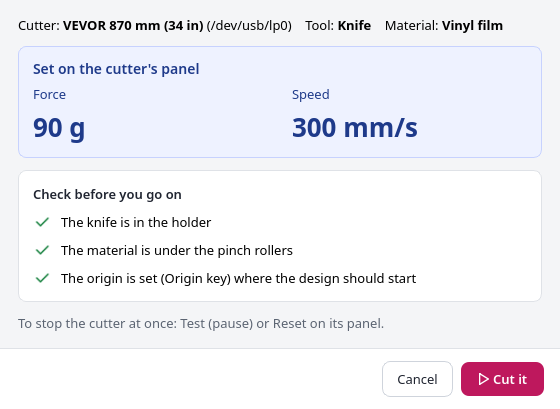
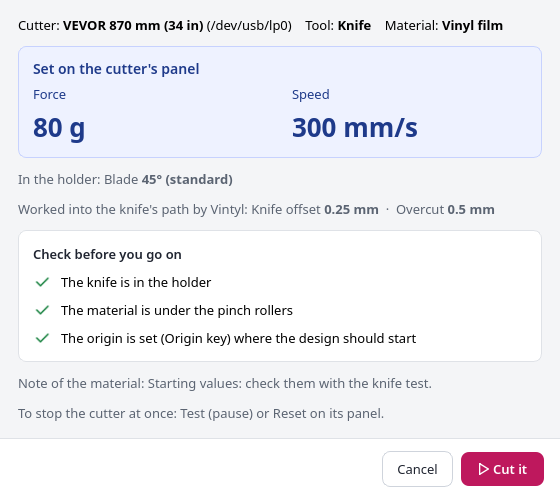
Screenshots for the website, in English and Polish
tools/readme_shots.py becomes tools/screenshots.py: it makes the pictures
in a language (docs/screenshots/, docs/screenshots/pl/), with more for the
guide: the knife path, a tool set, the list's menu, To 0,0, the fill, the
shortcuts, the knife test. Offscreen, with settings of its own; nothing is
sent to a cutter.

diff --git a/tools/screenshots.py b/tools/screenshots.py
@@ -1,11 +1,14 @@
 """
-The README's screenshots, made again from the program itself:
+The screenshots of the README and the website (docs/), made again from the
+program itself:
 
-    .venv/bin/python tools/readme_shots.py [docs/screenshots]
+    .venv/bin/python tools/screenshots.py          # English: docs/screenshots/
+    .venv/bin/python tools/screenshots.py pl       # Polish:  docs/screenshots/pl/
 
-English, the light look, a 1400 x 860 window. It runs offscreen with its own
+The light look, a 1400 x 860 window. It runs offscreen with its own
 settings, cutter profiles and materials in a temporary folder, so it never
-changes the user's own (~/.config/Vintyl). Nothing is sent to a cutter.
+changes the user's own (~/.config/Vintyl). Nothing is sent to a cutter:
+Start is never pressed, and the windows before sending are only shown.
 
 Copyright (C) 2026 Vintyl contributors
 Licensed under the GNU General Public License v3 or later. See LICENSE.
@@ -15,7 +18,8 @@ import sys
 import tempfile
 
 HERE = os.path.dirname(os.path.abspath(__file__))
-OUT = os.path.abspath(sys.argv[1] if len(sys.argv) > 1 else os.path.join(HERE, "..", "docs", "screenshots"))
+LANG = sys.argv[1] if len(sys.argv) > 1 else "en"
+OUT = os.path.join(HERE, "..", "docs", "screenshots", *([] if LANG == "en" else [LANG]))
 
 # before anything of Vintyl or Qt is loaded: offscreen, and settings of its own
 TEMP = tempfile.mkdtemp(prefix="vintyl-shots-")
@@ -27,7 +31,7 @@ sys.path.insert(0, os.path.join(HERE, "..", "src"))
 
 from vintyl import i18n  # noqa: E402
 
-i18n.setup("en")
+i18n.setup(LANG)
 
 from PySide6.QtCore import QPoint, QPointF, QRectF  # noqa: E402
 from PySide6.QtGui import QPainter  # noqa: E402
@@ -95,7 +99,7 @@ def ready(win, key, left, top, **values):
 def main_window():
     win = window()
     win._on_drawn("ellipse", QRectF(-700, -470, 120, 120))
-    ready(win, "star", -580, -470, points=5, size=90.0, inner=45.0)
+    star = ready(win, "star", -580, -470, points=5, size=90.0, inner=45.0)
     win._on_text_clicked(QPointF(-560, -170))
     win.opt_text.setText("Vintyl")
     win.opt_size.setValue(40.0)
@@ -104,7 +108,6 @@ def main_window():
     win.selected, win.selection = heart, [heart]
     win.tile_selected({"motif": "star", "size": 8.0, "gap": 3.0, "margin": 3.0, "stagger": True})
     win.weed_frame.setChecked(True)
-    star = [e for e in win.design.elements if e.name.startswith("Star")][0]
     win.view.select_many([star])
     win.selected, win.selection = star, [star]
     win._show_list()
@@ -112,6 +115,23 @@ def main_window():
     win.act_fit.trigger()
     wait(200)
     save(win.grab(), "main-window.png")
+    # a tool set, beside its button
+    pop = win.show_category("lines")
+    wait(150)
+    save(pop.grab(), "tool-set.png")
+    pop.close()
+    # the right-click menu on the element list
+    lst = win.element_list
+    pos = lst.visualItemRect(lst.item(1)).center()
+    menu = win.list_context_menu(pos, show=False)
+    menu.popup(lst.viewport().mapToGlobal(pos))
+    wait(150)
+    shot = win.grab()
+    p = QPainter(shot)
+    p.drawPixmap(menu.pos() - win.pos(), menu.grab())
+    p.end()
+    save(shot.copy(0, 100, 720, 600), "list-menu.png")
+    menu.close()
     return win
 
 
@@ -150,6 +170,55 @@ def pen_mode():
     win.act_fit.trigger()
     wait(200)
     save(win.grab(), "pen-mode.png")
+    # the fill window, with its preview
+    win.selected, win.selection = heart, [heart]
+    dlg = win._ask_fill([heart], show=False)
+    win._place_beside(dlg)
+    dlg.show()
+    until(lambda: not dlg.preview._pattern.isEmpty())
+    wait(200)
+    save(dlg.grab(), "fill.png")
+    dlg.previewer.wait()
+    dlg.close()
+
+
+def knife_path():
+    """The knife path on a plain design: the order of the cuts and the travels."""
+    win = window()
+    win.tool_box.setCurrentIndex(win.tool_box.findData("knife"))
+    win.material_box.setCurrentIndex(win.material_box.findData("vinyl"))
+    win._on_drawn("ellipse", QRectF(-560, -330, 120, 120))
+    ready(win, "star", -400, -340, points=5, size=130.0, inner=45.0)
+    win._on_text_clicked(QPointF(-520, -150))
+    win.opt_text.setText("Vintyl")
+    win.opt_size.setValue(50.0)
+    win._text_changed()
+    win.view.select_many([])
+    win.selected, win.selection = None, []
+    win._show_options()
+    win.act_knife.setChecked(True)
+    win.act_fit.trigger()
+    wait(200)
+    save(win.grab(), "knife-path.png")
+
+
+def to_origin():
+    """Two shapes far from the origin, then To 0,0 with the weeding frame."""
+    win = window()
+    win.tool_box.setCurrentIndex(win.tool_box.findData("knife"))
+    win.material_box.setCurrentIndex(win.material_box.findData("vinyl"))
+    win._on_drawn("ellipse", QRectF(-420, -330, 110, 80))
+    win._on_drawn("rectangle", QRectF(-560, -420, 90, 90))
+    win.weed_frame.setChecked(True)
+    win.view.select_many([])
+    win.selected, win.selection = None, []
+    win._show_options()
+    win.act_fit.trigger()
+    wait(150)
+    save(win.grab(), "to-origin-before.png")
+    win.move_to_origin()
+    wait(150)
+    save(win.grab(), "to-origin-after.png")
 
 
 def dialog_shot(open_it, name, size=None):
@@ -176,16 +245,30 @@ def main():
     win = main_window()
     pattern_of_shapes()
     pen_mode()
+    knife_path()
+    to_origin()
     dialog_shot(win.edit_profile, "cutter-settings.png", None)       # their own size, 1000 x 700
     dialog_shot(win.edit_material, "materials.png", None)
-    # the check list before Start, shown by itself: Start is never pressed here
+    dialog_shot(lambda: win.show_shortcuts(), "shortcuts.png", (1180, 760))
+    # the windows before sending, shown by themselves: Start is never pressed here
+    from vintyl.core import weeding
     from vintyl.gui import start_dialogs
+    from vintyl.gui import _
+    m = win.material()
+    note = _(m.note) if m is not None and m.note else ""        # a built-in material's note, as Start has it
     dlg = start_dialogs.confirm_start(win, win.profile.name, win.profile.port, False, win._material_name(),
-                                      ("Set on the cutter's panel", "90 g", "300 mm/s"), True, False,
-                                      "", show=False)
+                                      win.material_values(), not win.profile.send_speed_force, False, note,
+                                      show=False, details=win.cut_details())
     dlg.show()
     wait(150)
     save(dlg.grab(), "check-list.png")
+    dlg.close()
+    dlg = start_dialogs.confirm_knife_test(win, win.profile.name, win.KNIFE_TEST_MM,
+                                           weeding.knife_test(win.KNIFE_TEST_MM), win.material_values(),
+                                           show=False, details=win.cut_details(pen=False))
+    dlg.show()
+    wait(150)
+    save(dlg.grab(), "knife-test.png")
     dlg.close()
     os._exit(0)
 
